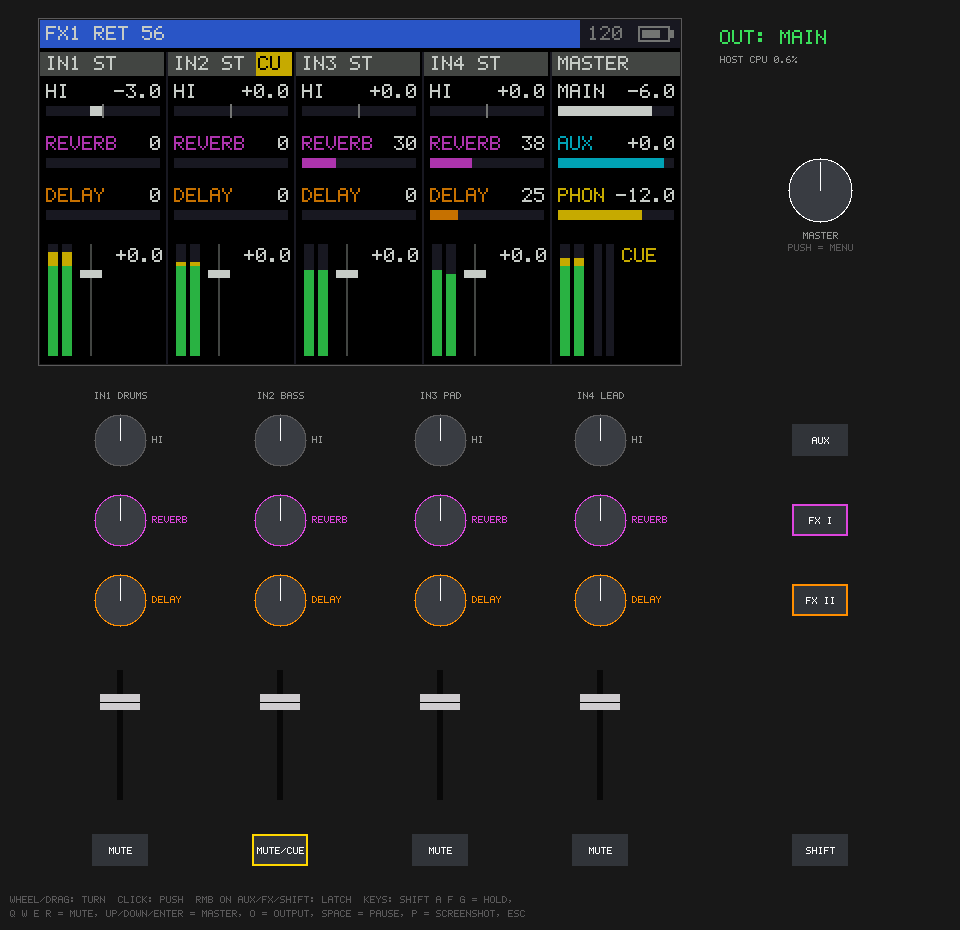
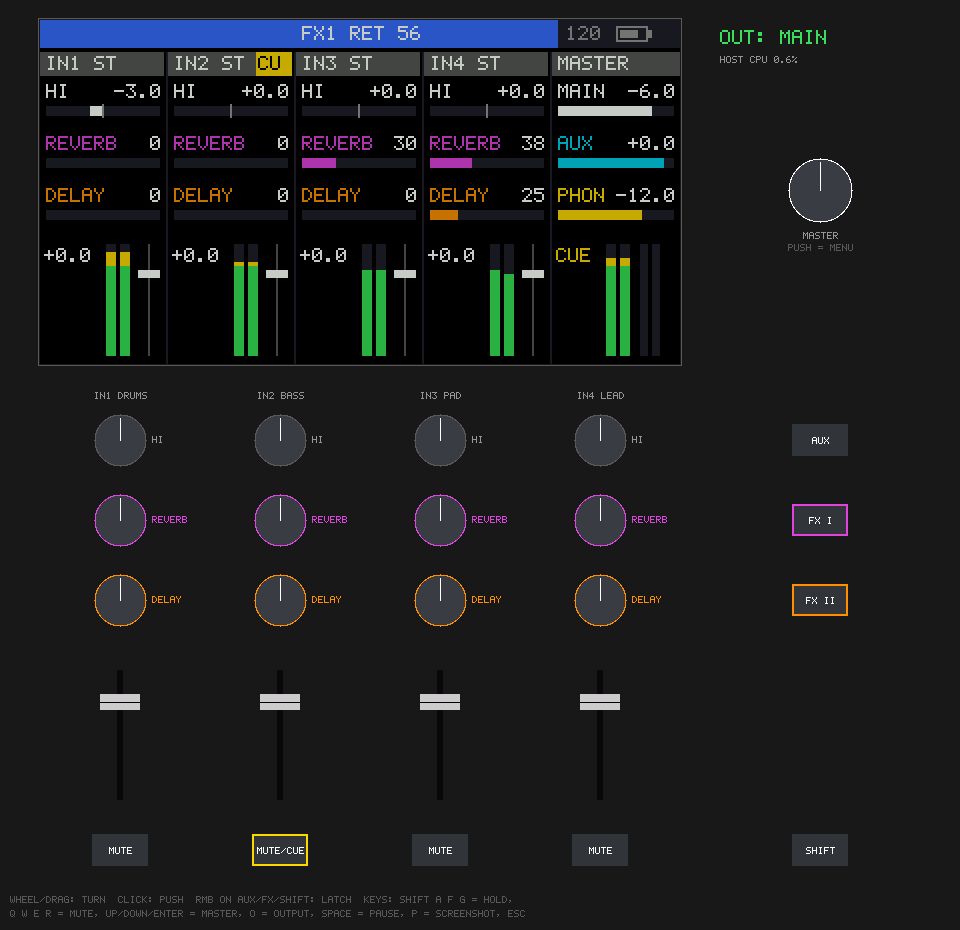
digital-mixer: дисплей - поворот 180 (MADCTL 0xA0), статуси від заокруглених кутів, рівні: цифра, метр, фейдер

diff --git a/digital-mixer/firmware/src/core/ui.cpp b/digital-mixer/firmware/src/core/ui.cpp
@@ -572,7 +572,7 @@ void Ui::drawTop(Canvas& c, const char* title, uint16_t colr) {
     c.fill(0, 0, DISPLAY_W, 14, col::DARK);
     uint32_t now = hal_->millis();
     char buf[48];
-    int rx = DISPLAY_W - 3;
+    int rx = DISPLAY_W - CORNER_INSET;                  // clear of the panel's rounded corner
     auto right = [&](const char* s, uint16_t k) {      // right-aligned status items, right to left
         int x = rx - Canvas::textWidth(s);
         c.text(x, 3, s, k);
@@ -598,8 +598,8 @@ void Ui::drawTop(Canvas& c, const char* title, uint16_t colr) {
     if (now < toastUntil_) {
         snprintf(buf, sizeof buf, "%s %s", toastL_, toastV_);
         c.fill(0, 0, rx + 4, 14, col::BLUE);
-        c.text(3, 3, buf, col::WHITE);
-    } else c.text(3, 3, title, colr);
+        c.textCentered(DISPLAY_W / 2, 3, buf, col::WHITE);
+    } else c.textCentered(DISPLAY_W / 2, 3, title, colr);
 }
 
 void Ui::drawStrip(Canvas& c, int ch, int x) {
@@ -620,23 +620,23 @@ void Ui::drawStrip(Canvas& c, int ch, int x) {
         int k = paramDesc(id).kind;
         drawBar(c, x + 3, y0 + 11, 57, 5, paramNorm(id, v), k == K_DB || k == K_BIPOLAR, colr);
     }
-    // meters, fader, gain reduction
+    // left to right: fader level (and gain reduction) as numbers, meters, fader
     int y = 112, h = 56;
-    drawMeter(c, x + 4, y, 5, h, mix_->chMeter[ch][0].peak, mix_->chMeter[ch][0].clip);
-    drawMeter(c, x + 11, y, 5, h, mix_->chMeter[ch][1].peak, mix_->chMeter[ch][1].clip);
     float pos = live_->fader[ch];
-    c.vline(x + 25, y, h, col::GREY);
-    int yk = y + (int)lroundf((1.f - pos) * (h - 4));
-    c.fill(x + 20, yk, 11, 4, col::WHITE);
     float db = faderDb(pos);
     if (db <= -89.f) snprintf(buf, sizeof buf, "-INF"); else snprintf(buf, sizeof buf, "%+.1f", (double)db);
-    c.textRight(x + 61, y + 2, buf, col::WHITE);
+    c.text(x + 2, y + 2, buf, col::WHITE);
     float gr = mix_->chGr[ch];
     if (gr > 0.3f) {
         snprintf(buf, sizeof buf, "-%.0f", (double)gr);
-        c.textRight(x + 61, y + 14, "GR", col::RED);
-        c.textRight(x + 61, y + 24, buf, col::RED);
+        c.text(x + 2, y + 14, "GR", col::RED);
+        c.text(x + 2, y + 24, buf, col::RED);
     }
+    drawMeter(c, x + 33, y, 5, h, mix_->chMeter[ch][0].peak, mix_->chMeter[ch][0].clip);
+    drawMeter(c, x + 40, y, 5, h, mix_->chMeter[ch][1].peak, mix_->chMeter[ch][1].clip);
+    c.vline(x + 54, y, h, col::GREY);
+    int yk = y + (int)lroundf((1.f - pos) * (h - 4));
+    c.fill(x + 49, yk, 11, 4, col::WHITE);
     c.vline(x + 63, 16, DISPLAY_H - 16, col::DARK);
 }
 
@@ -656,18 +656,19 @@ void Ui::drawMaster(Canvas& c, int x) {
         drawBar(c, x + 3, y0 + 11, 58, 5, paramNorm(ids[r], v), false, cols[r]);
     }
     int y = 112, h = 56;
-    drawMeter(c, x + 4, y, 5, h, mix_->mainMeter[0].peak, mix_->mainMeter[0].clip);
-    drawMeter(c, x + 11, y, 5, h, mix_->mainMeter[1].peak, mix_->mainMeter[1].clip);
-    drawMeter(c, x + 21, y, 4, h, mix_->auxMeter[0].peak, mix_->auxMeter[0].clip);
-    drawMeter(c, x + 27, y, 4, h, mix_->auxMeter[1].peak, mix_->auxMeter[1].clip);
     bool cue = scene_->phonesSrc == (uint8_t)PhonesSrc::Cue || (scene_->phonesSrc == 0 && mix_->anyCue());
-    c.text(x + 35, y + 2, cue ? "CUE" : "", col::YELLOW);
+    c.text(x + 2, y + 2, cue ? "CUE" : "", col::YELLOW);
     if (mix_->limGr > 0.3f) {
         snprintf(buf, sizeof buf, "-%.0f", (double)mix_->limGr);
-        c.text(x + 35, y + 14, "LIM", col::RED);
-        c.text(x + 35, y + 24, buf, col::RED);
+        c.text(x + 2, y + 14, "LIM", col::RED);
+        c.text(x + 2, y + 24, buf, col::RED);
     }
+    drawMeter(c, x + 27, y, 5, h, mix_->mainMeter[0].peak, mix_->mainMeter[0].clip);
+    drawMeter(c, x + 34, y, 5, h, mix_->mainMeter[1].peak, mix_->mainMeter[1].clip);
+    drawMeter(c, x + 44, y, 4, h, mix_->auxMeter[0].peak, mix_->auxMeter[0].clip);
+    drawMeter(c, x + 50, y, 4, h, mix_->auxMeter[1].peak, mix_->auxMeter[1].clip);
 }
+
 
 void Ui::drawHome(Canvas& c) {
     char title[48];

diff --git a/digital-mixer/firmware/src/teensy/st7789.h b/digital-mixer/firmware/src/teensy/st7789.h
@@ -16,7 +16,7 @@ public:
     static constexpr uint32_t SPI_HZ = 15000000;
     // MADCTL for landscape: MV = 1 (row/column exchange) + MX or MY for the mounting orientation, and
     // the 172-pixel side sits at offset 34 in the 240-line controller RAM - both `ПЕРЕВІРИТИ` on the sample.
-    static constexpr uint8_t MADCTL = 0x60;     // MX | MV, RGB order
+    static constexpr uint8_t MADCTL = 0xA0;     // MY | MV, RGB order: checked on the module (0x60 = upside down)
     static constexpr int OFFSET_Y = 34, OFFSET_X = 0;
 
     void begin() {

diff --git a/digital-mixer/firmware/src/core/ui.h b/digital-mixer/firmware/src/core/ui.h
@@ -18,6 +18,7 @@ enum : uint8_t { E_MASTER = 12, E_COUNT = 13 };
 enum : uint8_t { B_MASTER = 12, B_MUTE1 = 13, B_AUX = 17, B_FX1 = 18, B_FX2 = 19, B_SHIFT = 20, B_COUNT = 21 };
 
 constexpr int DISPLAY_W = 320, DISPLAY_H = 172;     // GMT147SPI landscape (DM18, DM25)
+constexpr int CORNER_INSET = 14;                     // status items stay clear of the rounded panel corners
 constexpr const char* FW_VERSION = "0.2";
 
 class Ui {

diff --git a/digital-mixer/docs/06-firmware.md b/digital-mixer/docs/06-firmware.md
@@ -246,7 +246,7 @@ pio run -t upload        # залити через Teensy Loader
 | ЦАП PCM5102A × 3 | `AudioOutputI2SHex`: пін 7 — MAIN, 32 — AUX, 9 — CUE; XSMT і EN навушників піднімаються лише після налаштування кодеків | `output_i2s_hex.cpp`; [03](03-schematic.md), п. 2 |
 | MCP23017 × 3 (I²C2, 400 kHz) | входи з підтяжками 100k, переривання на будь-яку зміну, INTA = INTB (MIRROR); читання GPIOA + GPIOB при низькому INT і кожні 4 мс (антибрязкіт 5 мс) | [mcp23017.pdf](datasheets/mcp23017.pdf), табл. 3-1, регістр IOCON |
 | Енкодери | квадратурний декодер за кодом Грея: крок рахується при поверненні в стан спокою A = B = 1; MASTER — на перериваннях пінів 0, 1 | креслення [EC12SY](datasheets/ec12sy-smd-encoder-drawing.png): 24 фіксації / 24 імпульси |
-| Дисплей ST7789V | SPI 15 MHz (мінімальний період такту запису 66 нс); COLMOD 16 біт, MADCTL `MV + MX`, INVON; надсилаються лише рядки, що змінилися, по 6 за раз, ≈ 30 кадрів/с | datasheet Sitronix ST7789V v1.3 (позначений як конфіденційний, тому лише локально) |
+| Дисплей ST7789V | SPI 15 MHz (мінімальний період такту запису 66 нс); COLMOD 16 біт, MADCTL `MV + MY` (0xA0 — перевірено на модулі GMT147SPI, 0x60 дає зображення догори дриґом), INVON; статуси верхнього ряду — на 14 пікселів від краю через заокруглені кути панелі; надсилаються лише рядки, що змінилися, по 6 за раз, ≈ 30 кадрів/с | datasheet Sitronix ST7789V v1.3 (позначений як конфіденційний, тому лише локально) |
 | Підсвітка | ШІМ 20 kHz на піні 28 | [03](03-schematic.md) |
 | Фейдери, батарея | 12 біт, усереднення; батарея = A14 × 2 | [03](03-schematic.md) |
 
@@ -289,7 +289,7 @@ pio run -t upload        # залити через Teensy Loader
 |---|---|---|
 | Синхронізація TDM з PCM1865 | осцилограф: LRCK2 / BCK2 / DOUT; тон на IN1 → слот 0, IN3 → слот 4 | `TX_TDM_OFFSET` (1 / 129) у `main.cpp` |
 | SAI1 і SAI2 одночасно від одного аудіо-PLL | обидва порти працюють, `AudioProcessorUsage` | [03](03-schematic.md), п. 2 |
-| Орієнтація й зсув дисплея | тестова картинка | `St7789::MADCTL`, `OFFSET_Y` (34), INVON |
+| Орієнтація й зсув дисплея | на модулі на breadboard: орієнтація — MADCTL 0xA0 (28.10.2026); зсув і кольори — ще звірити | `St7789::MADCTL`, `OFFSET_Y` (34), INVON |
 | Швидкість SPI дисплея | 15 → 30 MHz без артефактів | `St7789::SPI_HZ` |
 | Напрямок енкодерів | меню ENC DIR | порядок A/B у `controls.cpp` |
 | Фейдери: межі й напрямок | меню FADER CAL, потім низ = вимкнено, верх = +6 dB | калібрування зберігається в налаштуваннях |
